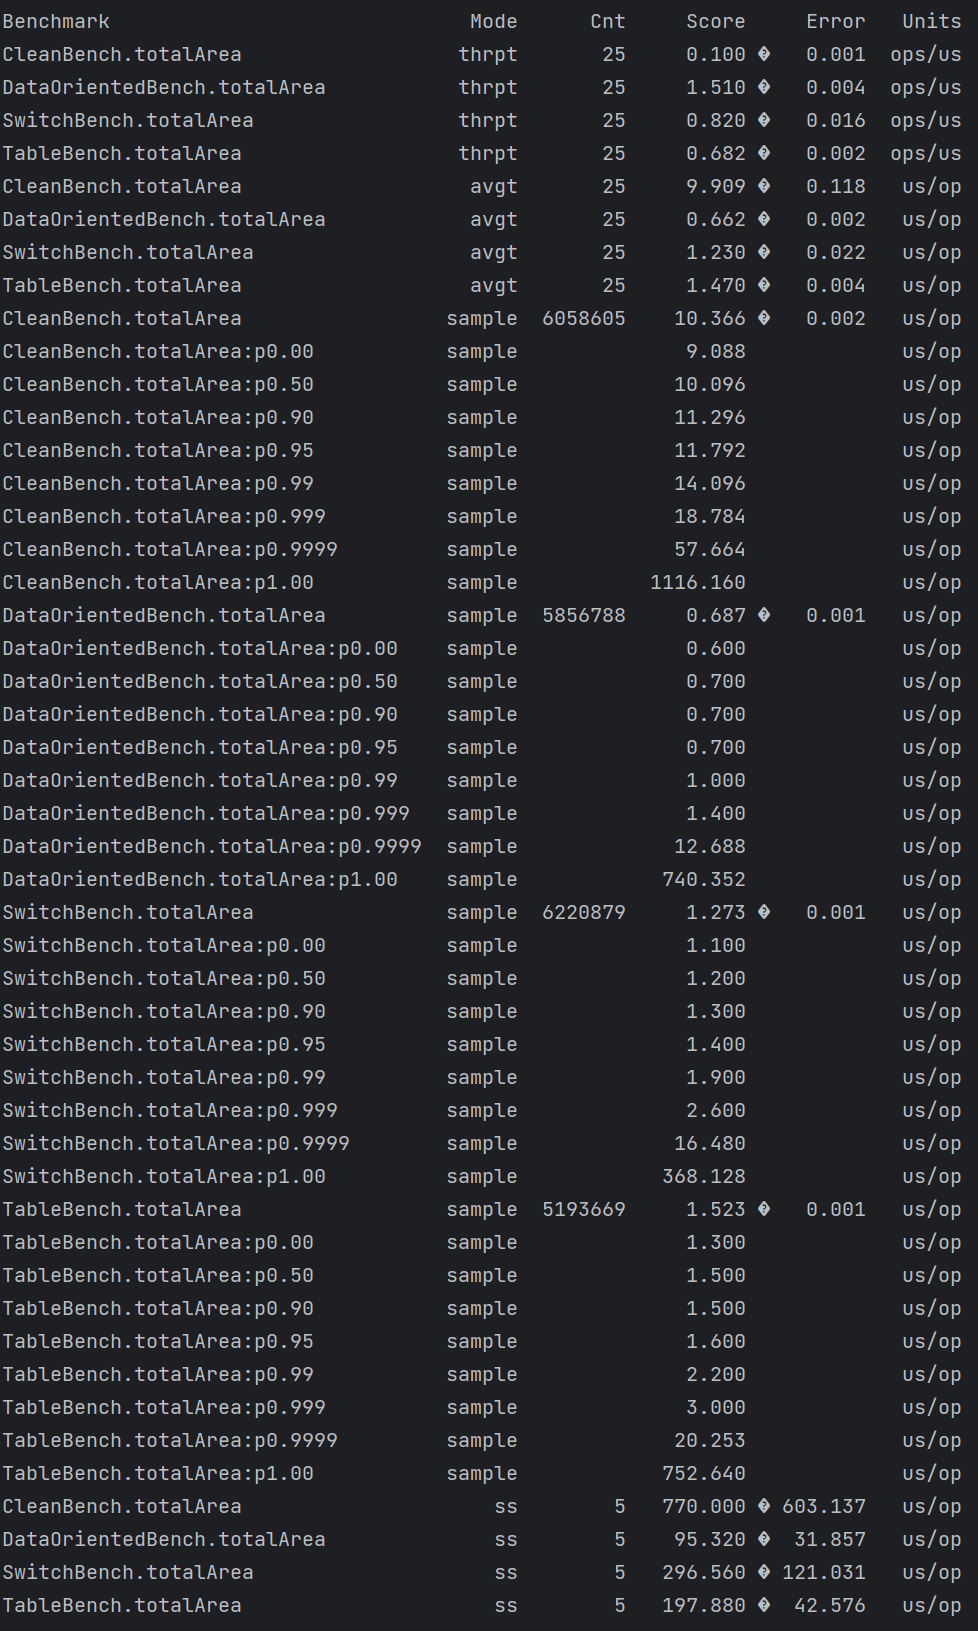
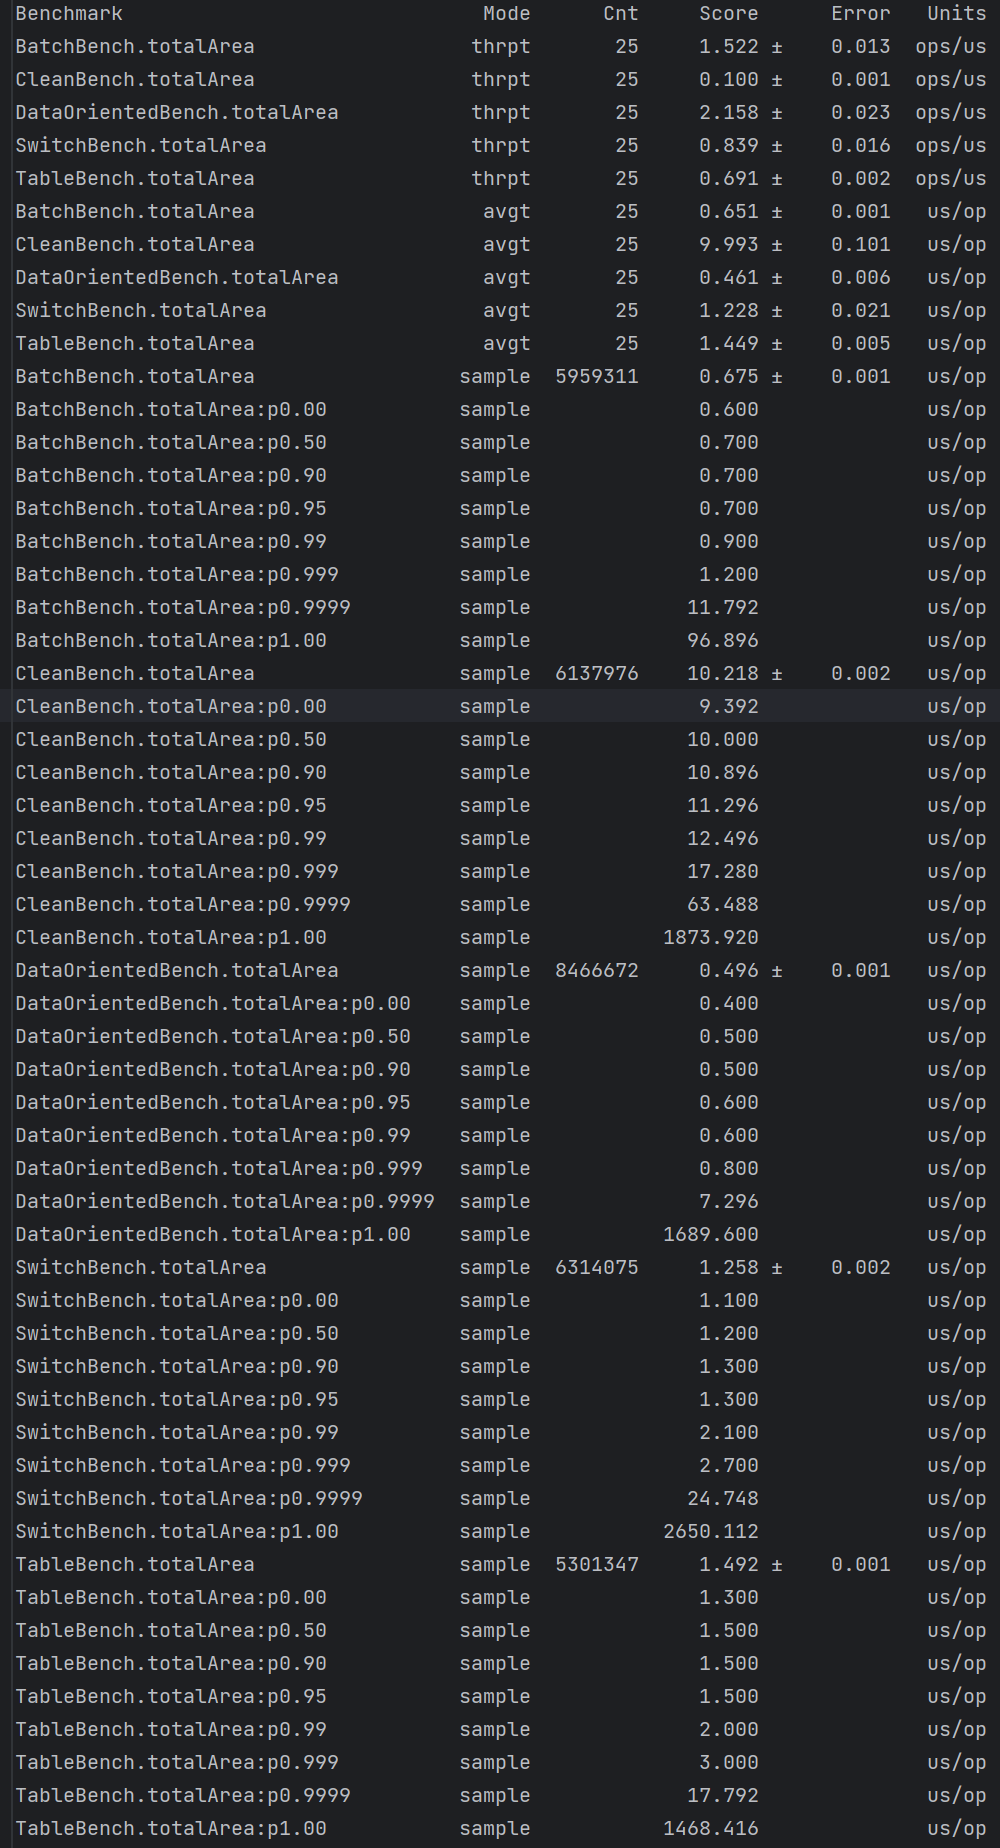
Rename test and add new test that better reflects the original naming; Add Main function to test quickly;Generate new test results sample image;

diff --git a/src/main/kotlin/main/DataOriented.kt b/src/main/kotlin/main/DataOriented.kt
@@ -2,31 +2,80 @@ package main
 
 import java.security.SecureRandom
 
-class DSquare(private val side:Double){
-    fun area() = this.side * side
-}
-class DRectangle(private val width:Double, private val height: Double){
-    fun area() = width * height
-}
-class DTriangle(private val base:Double, private val height:Double){
-    fun area() = 0.5 * base * height
-}
-class DCircle(private val radius:Double){
-    fun area() = Math.PI * radius * radius
-}
 
+class DShape(
+    private val squares: FloatArray,
+    private val rectangles: FloatArray,
+    private val circles: FloatArray,
+    private val triangles: FloatArray
 
-fun buildDataOrientedShapes(squares:MutableList<DSquare>,rectangles:MutableList<DRectangle>,triangles :MutableList<DTriangle>, circles: MutableList<DCircle>, count: Int){
-    val secureRandom = SecureRandom()
+    ) {
+    private fun squareArea(i: Int) = squares[i] * squares[i]
+    private fun rectangleArea(i: Int) = rectangles[i] * rectangles [i+1]
+    private fun circleArea(i: Int) =  Math.PI * circles[i] * circles[i]
+    private fun triangleArea(i: Int) = 0.5f * triangles[i] * triangles[i+1]
 
-    for (i in 1 .. count) {
-        when(secureRandom.nextInt(Int.MAX_VALUE)%4){
-            0 -> squares.add(DSquare(secureRandom.nextDouble()))
-            1-> rectangles.add(DRectangle(secureRandom.nextDouble(), secureRandom.nextDouble()))
-            2 -> triangles.add(DTriangle(secureRandom.nextDouble(), secureRandom.nextDouble()))
-            3 -> circles.add(DCircle(secureRandom.nextDouble()))
+    fun totalArea() : Float
+    {
+        var totalAreaSquare = 0.0f
+        var i = 0
+        while(i < squares.size){
+            totalAreaSquare+= squareArea(i)
+            i++
         }
+        i=0
+        var totalAreaRectangle = 0.0f
+        while(i < rectangles.size){
+            totalAreaRectangle+= rectangleArea(i)
+            i+=2
+        }
+
+        i=0
+        var totalAreaCircle = 0.0f
+        while(i < circles.size){
+            totalAreaCircle+= circleArea(i).toFloat()
+            i+=2
+        }
+        i=0
+        var totalAreaTriangle = 0.0f
+        while(i < triangles.size){
+            totalAreaTriangle+= triangleArea(i)
+            i+=2
+        }
+        return totalAreaSquare + totalAreaRectangle + totalAreaCircle + totalAreaTriangle
     }
 }
-fun dataOrientedTotalArea(squares:MutableList<DSquare>,rectangles:MutableList<DRectangle>,triangles :MutableList<DTriangle>, circles: MutableList<DCircle>)=
-    squares.sumOf { it.area() } + rectangles.sumOf { it.area() } + triangles.sumOf { it.area() } + circles.sumOf { it.area() }
+
+
+fun buildDataOrientedShapes(count: Int): DShape {
+    val secureRandom = SecureRandom()
+
+    val squares = mutableListOf<Float>()
+    val rectangles = mutableListOf<Float>()
+    val triangles = mutableListOf<Float>()
+    val circles = mutableListOf<Float>()
+    for (i in 1..count) {
+        when (secureRandom.nextInt(Int.MAX_VALUE) % 4) {
+            0 -> squares.add(secureRandom.nextFloat())
+            1 -> {
+                rectangles.add(secureRandom.nextFloat())
+                rectangles.add(secureRandom.nextFloat())
+            }
+
+            2 -> {
+                triangles.add(secureRandom.nextFloat())
+                triangles.add(secureRandom.nextFloat())
+            }
+
+            3 -> circles.add(secureRandom.nextFloat())
+        }
+    }
+    return DShape(
+        squares = squares.toFloatArray(),
+        rectangles = rectangles.toFloatArray(),
+        circles = circles.toFloatArray(),
+        triangles = triangles.toFloatArray()
+    )
+}
+
+fun dataOrientedTotalArea(shape: DShape) = shape.totalArea()

diff --git a/src/main/kotlin/main/Main.kt b/src/main/kotlin/main/Main.kt
@@ -1,10 +1,48 @@
 package main
 
-fun main(args: Array<String>) {
-    println(0.toEnum<ShapeType>())
-    println(1.toEnum<ShapeType>())
-    println(2.toEnum<ShapeType>())
-    println(3.toEnum<ShapeType>())
-    println(4.toEnum<ShapeType>())
+import kotlin.system.measureNanoTime
+import kotlin.system.measureTimeMillis
+
+fun main() {
+    //setup
+    val count = 10000000
+    val squares = mutableListOf<BSquare>()
+    val rectangles = mutableListOf<BRectangle>()
+    val triangles = mutableListOf<BTriangle>()
+    val circles = mutableListOf<BCircle>()
+    buildBatchShapes(squares, rectangles, triangles, circles, count)
+    val cleanShapes = buildCleanShapes(count)
+    val switchShapes = buildSwitchShapes(count)
+    val shape = buildDataOrientedShapes(count)
+    val tableShapes = buildTableShapes(count)
+
+    //measurements
+
+    //clean
+    val clean = measureTimeMillis {
+        cleanTotalArea(cleanShapes)
+    }
+    println("Clean: $clean ms")
+    //switch
+    val switch = measureTimeMillis {
+        switchTotalArea(switchShapes)
+    }
+    println("Switch $switch ms")
+    //table
+    val table = measureTimeMillis {
+        tableTotalArea(tableShapes)
+    }
+    println("Table: $table ms")
+
+    //batch
+    val batch = measureTimeMillis {
+        batchTotalArea(squares, rectangles, triangles, circles)
+    }
+    println("Batch: $batch ms")
+    //data oriented
+    val dataOriented = measureTimeMillis {
+        dataOrientedTotalArea(shape)
+    }
+    println("DataOriented: $dataOriented ms")
 
 }

diff --git a/src/main/kotlin/main/Batch.kt b/src/main/kotlin/main/Batch.kt
@@ -1,0 +1,32 @@
+package main
+import java.security.SecureRandom
+import kotlin.concurrent.thread
+
+class BSquare(private val side:Double){
+    fun area() = this.side * side
+}
+class BRectangle(private val width:Double, private val height: Double){
+    fun area() = width * height
+}
+class BTriangle(private val base:Double, private val height:Double){
+    fun area() = 0.5 * base * height
+}
+class BCircle(private val radius:Double){
+    fun area() = Math.PI * radius * radius
+}
+
+
+fun buildBatchShapes(squares:MutableList<BSquare>, rectangles:MutableList<BRectangle>, triangles :MutableList<BTriangle>, circles: MutableList<BCircle>, count: Int){
+    val secureRandom = SecureRandom()
+
+    for (i in 1 .. count) {
+        when(secureRandom.nextInt(Int.MAX_VALUE)%4){
+            0 -> squares.add(BSquare(secureRandom.nextDouble()))
+            1-> rectangles.add(BRectangle(secureRandom.nextDouble(), secureRandom.nextDouble()))
+            2 -> triangles.add(BTriangle(secureRandom.nextDouble(), secureRandom.nextDouble()))
+            3 -> circles.add(BCircle(secureRandom.nextDouble()))
+        }
+    }
+}
+fun batchTotalArea(squares:MutableList<BSquare>, rectangles:MutableList<BRectangle>, triangles :MutableList<BTriangle>, circles: MutableList<BCircle>)=
+    squares.sumOf { it.area() } + rectangles.sumOf { it.area() } + triangles.sumOf { it.area() } + circles.sumOf { it.area() }

diff --git a/src/test/kotlin/benchmark/DataOrientedBench.kt b/src/test/kotlin/benchmark/DataOrientedBench.kt
@@ -8,19 +8,14 @@ import java.util.concurrent.TimeUnit
 @BenchmarkMode(Mode.All)
 @OutputTimeUnit(TimeUnit.MICROSECONDS)
 open class DataOrientedBench {
-
-    private val squares =  mutableListOf<DSquare>()
-    private val rectangles =  mutableListOf<DRectangle>()
-    private val triangles =  mutableListOf<DTriangle>()
-    private val circles =  mutableListOf<DCircle>()
+    private lateinit var shape: DShape
     private val count:Int = 1000
     @Setup
     fun setup(){
-        buildDataOrientedShapes(squares, rectangles, triangles, circles, count)
+       shape = buildDataOrientedShapes(count)
     }
     @Benchmark
     fun totalArea(){
-        dataOrientedTotalArea(squares, rectangles, triangles, circles)
+        dataOrientedTotalArea(shape)
     }
-
 }

diff --git a/src/test/kotlin/benchmark/BatchBench.kt b/src/test/kotlin/benchmark/BatchBench.kt
@@ -1,0 +1,26 @@
+package benchmark
+
+import main.*
+import org.openjdk.jmh.annotations.*
+import java.util.concurrent.TimeUnit
+
+@State(Scope.Benchmark)
+@BenchmarkMode(Mode.All)
+@OutputTimeUnit(TimeUnit.MICROSECONDS)
+open class BatchBench {
+
+    private val squares = mutableListOf<BSquare>()
+    private val rectangles = mutableListOf<BRectangle>()
+    private val triangles = mutableListOf<BTriangle>()
+    private val circles = mutableListOf<BCircle>()
+    private val count:Int = 1000
+    @Setup
+    fun setup(){
+        buildBatchShapes(squares, rectangles, triangles, circles, count)
+    }
+    @Benchmark
+    fun totalArea(){
+        batchTotalArea(squares, rectangles, triangles, circles)
+    }
+
+}
